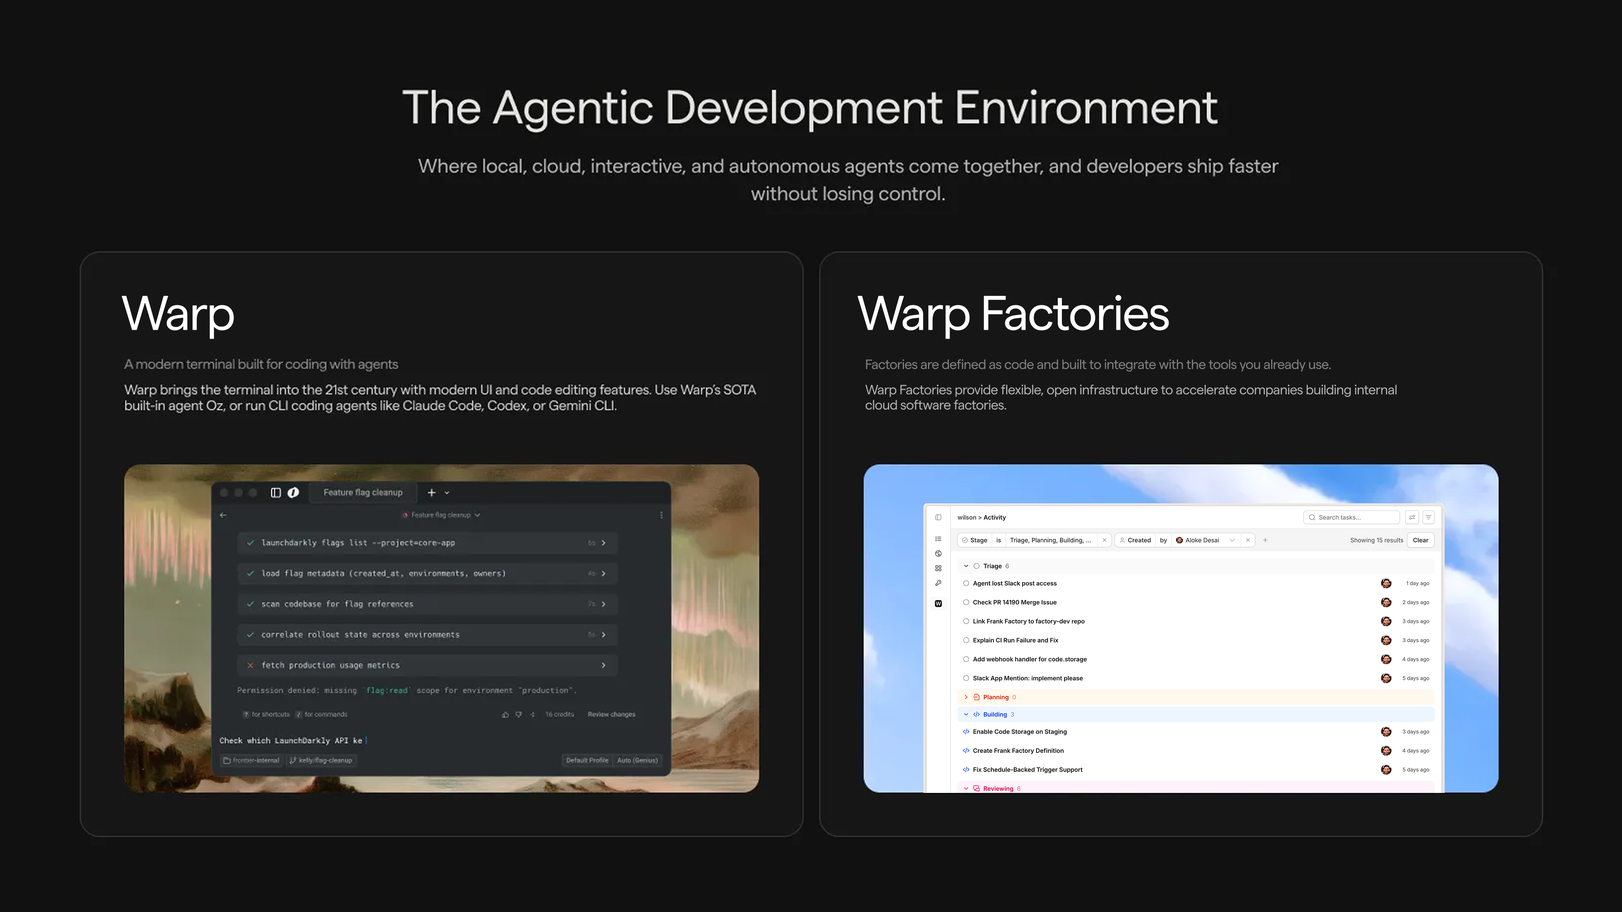
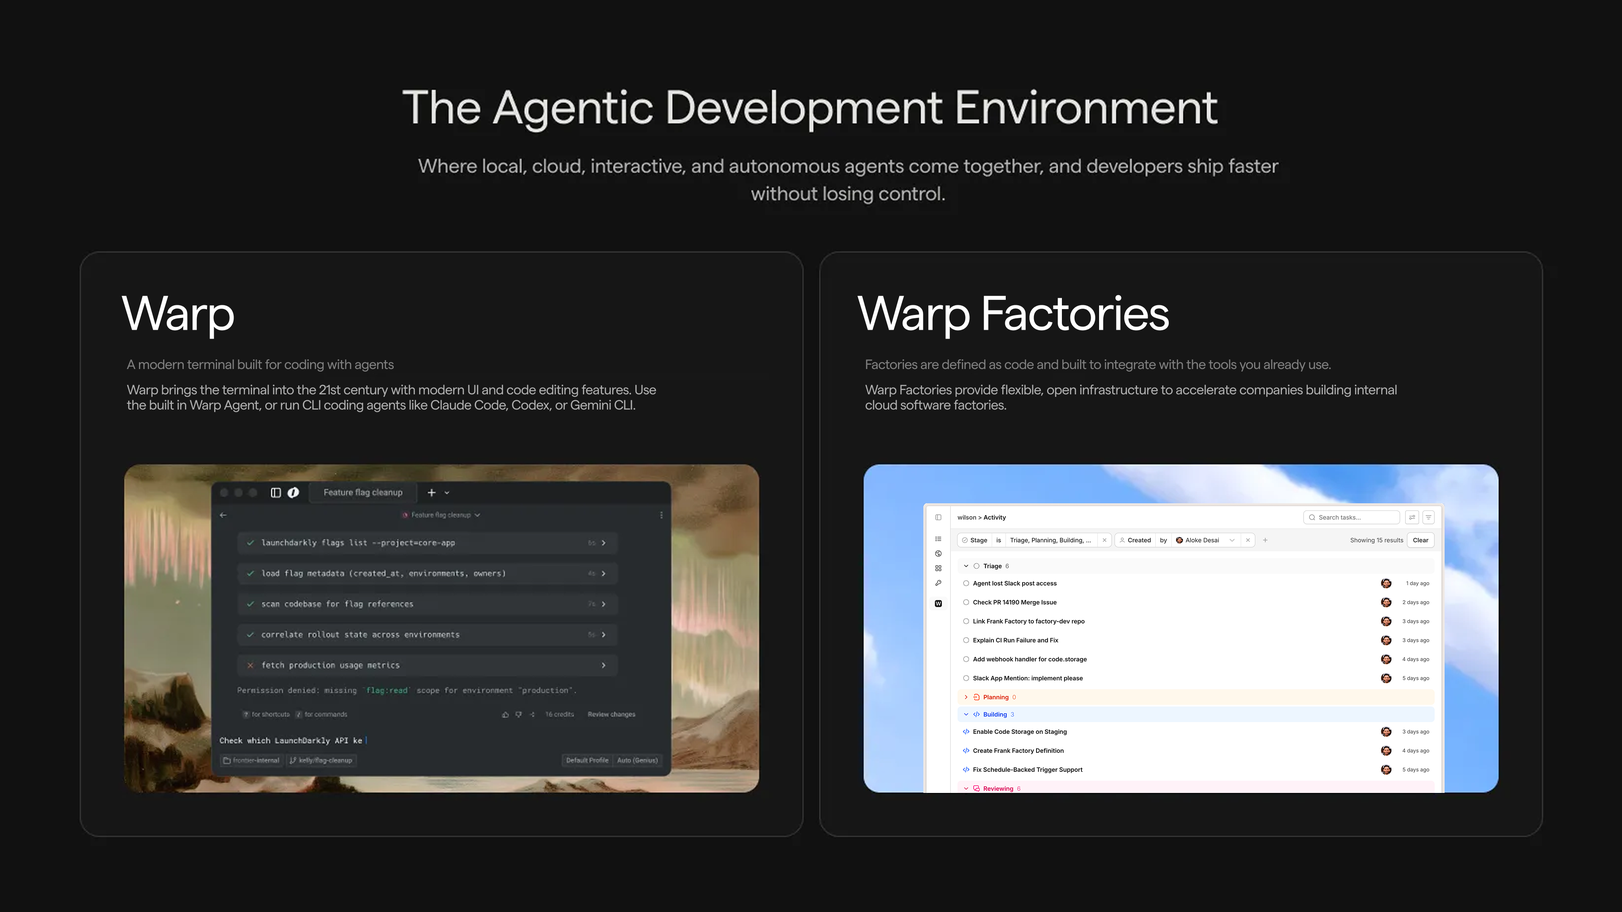
docs: add rename transition callouts and corrected hero graphic
Transition notices, so a reader arriving from an old link or bookmark is
not left wondering whether Oz went away.

Callouts on the two highest-inbound entry points: /platform/overview and
/platform, which carry 16 legacy redirects each. Both state that only the
name changed, that existing integrations, API keys, schedules, and scripts
keep working, and that the `oz` CLI and web app hold the Oz name until
9/15 -- which is the actual question a reader has when the docs say
"Automation Platform" but their terminal still says `oz`.

A "(formerly Oz)" parenthetical on /platform/integrations, the single
highest-redirect page at 19. Chose targets by inbound redirect count rather
than intuition; of the next five candidates, three never name the platform
at all, so there was nothing to attach a parenthetical to. Tried one on
/platform/environments and reverted it: the sentence already ends in a
parenthetical, and "(formerly Oz) (cloud agents, integrations, API runs)"
is worse than no note.

Both callouts carry a dated comment marking them for removal after 9/15.

Hero graphic replaced again with the corrected export. The previous one
still read "Use Warp's SOTA built-in agent Oz", which was doubly wrong:
a stale name, and it called the built-in *agent* Oz when Oz was the
platform. It now reads "Use the built in Warp Agent".

Three lint guard changes, each because the guard was fighting correct copy:

- Transition phrasings ("formerly Oz", "Oz is now", "the Oz name") no
[…]

Changed region(s): [[0.0617, 0.3991, 0.4624, 0.4605]]

diff --git a/.agents/skills/style_lint/style_lint.py b/.agents/skills/style_lint/style_lint.py
@@ -96,6 +96,40 @@ RENAME_SENSITIVE_VAR_STRINGS: List[Tuple[str, str, str]] = [
     ("Oz",           "WARP_AUTOMATION_PLATFORM", "{VARS.WARP_AUTOMATION_PLATFORM} in prose or {{WARP_AUTOMATION_PLATFORM}} in frontmatter"),
 ]
 
+# Phrasings that deliberately name the old product. A transition callout has to
+# say "Oz" to do its job, so without this the guard would fight the very copy
+# that explains the rename -- and the author's only workaround would be to
+# backtick a product name, which is semantically wrong.
+#
+# Keyed on explicit transition phrasings rather than a per-file or per-page
+# opt-out, so an unrelated stale "Oz" elsewhere on the same page is still
+# caught. Only old-name literals are suppressed; a hardcoded *new* name on the
+# same line still gets flagged, since nothing about a transition sentence
+# excuses that.
+RENAME_TRANSITION_MARKERS: Tuple[str, ...] = (
+    "formerly Oz",
+    "formerly called Oz",
+    "formerly the Oz",
+    "Oz is now",
+    "was called Oz",
+    "renamed from Oz",
+    # Explains why "Oz" still appears in commands and URLs before 9/15.
+    "the Oz name",
+)
+
+# Product names that merely contain "Oz" but are not the platform name, so they
+# do not change when it does. "Oz by Warp" is the GitHub App as it appears in
+# GitHub's own UI, at github.com/apps/oz-by-warp, and is what PRs and commits
+# are attributed to. Renaming it in the docs would make them disagree with what
+# the reader sees on GitHub. Same reasoning as the `@oz-agent` handle.
+#
+# Matched as a suffix on the literal rather than added as its own entry,
+# because the goal is to suppress rather than redirect: there is no variable
+# these should be using instead.
+RENAME_EXEMPT_SUFFIXES: Tuple[str, ...] = (
+    " by Warp",
+)
+
 # Determiner check for WARP_AUTOMATION_PLATFORM. See check_platform_determiner.
 #
 # "Oz" was a proper noun and read correctly bare. "Automation Platform" is a
@@ -962,6 +996,10 @@ def check_hardcoded_vars(lines: List[str], filepath: str) -> List[Issue]:
     An "@"-prefixed occurrence is skipped because mention handles are literal
     strings that do not necessarily change with product names. Variabilizing
     a handle could silently rewrite it into an invalid value at rename time.
+
+    Old-name literals are also skipped on lines carrying a phrase from
+    RENAME_TRANSITION_MARKERS, so "formerly Oz" copy can name the old product
+    without the guard objecting. New-name literals on those lines still flag.
     """
     issues = []
     in_code_block = False
@@ -976,8 +1014,24 @@ def check_hardcoded_vars(lines: List[str], filepath: str) -> List[Issue]:
             continue
         if in_code_block:
             continue
+        # Text that describes an image must match the image, so it cannot be
+        # tokenized. Two separate reasons, same conclusion:
+        #
+        # Alt text is markdown, not JSX -- `![... {VARS.WEB_APP}](...)` renders
+        # the literal "VARS.WEB_APP" on the page, so tokenizing it is simply
+        # broken. Figcaptions *are* JSX and would substitute correctly, but a
+        # caption that auto-flips ahead of the screenshot it captions is worse
+        # than one that stays stale: the page would claim a name the image
+        # visibly contradicts. Both have to be updated by hand, together with
+        # the images, when the screenshots are retaken.
+        if line.lstrip().startswith("![") or "<figcaption" in line:
+            continue
         # Strip inline code spans so backtick-wrapped references are not flagged
         prose_line = re.sub(r"`[^`]+`", "", line)
+        # Deliberate historical reference on this line. See docstring.
+        is_transition_line = any(
+            marker in prose_line for marker in RENAME_TRANSITION_MARKERS
+        )
         matched_spans: List[Tuple[int, int]] = []
         for literal, var_key, suggestion, pattern in compiled:
             for m in pattern.finditer(prose_line):
@@ -986,6 +1040,16 @@ def check_hardcoded_vars(lines: List[str], filepath: str) -> List[Issue]:
                     continue
                 # Mention handles are literal strings, not prose. See docstring.
                 if span[0] > 0 and prose_line[span[0] - 1] == "@":
+                    continue
+                # Only the old name is excused by transition phrasing; a
+                # hardcoded new name is still a bug on the same line.
+                if is_transition_line and literal.startswith(("Oz", "oz")):
+                    continue
+                # Distinct product names that happen to contain "Oz".
+                if any(
+                    prose_line[span[1]:].startswith(suffix)
+                    for suffix in RENAME_EXEMPT_SUFFIXES
+                ):
                     continue
                 matched_spans.append(span)
                 issues.append(Issue(
